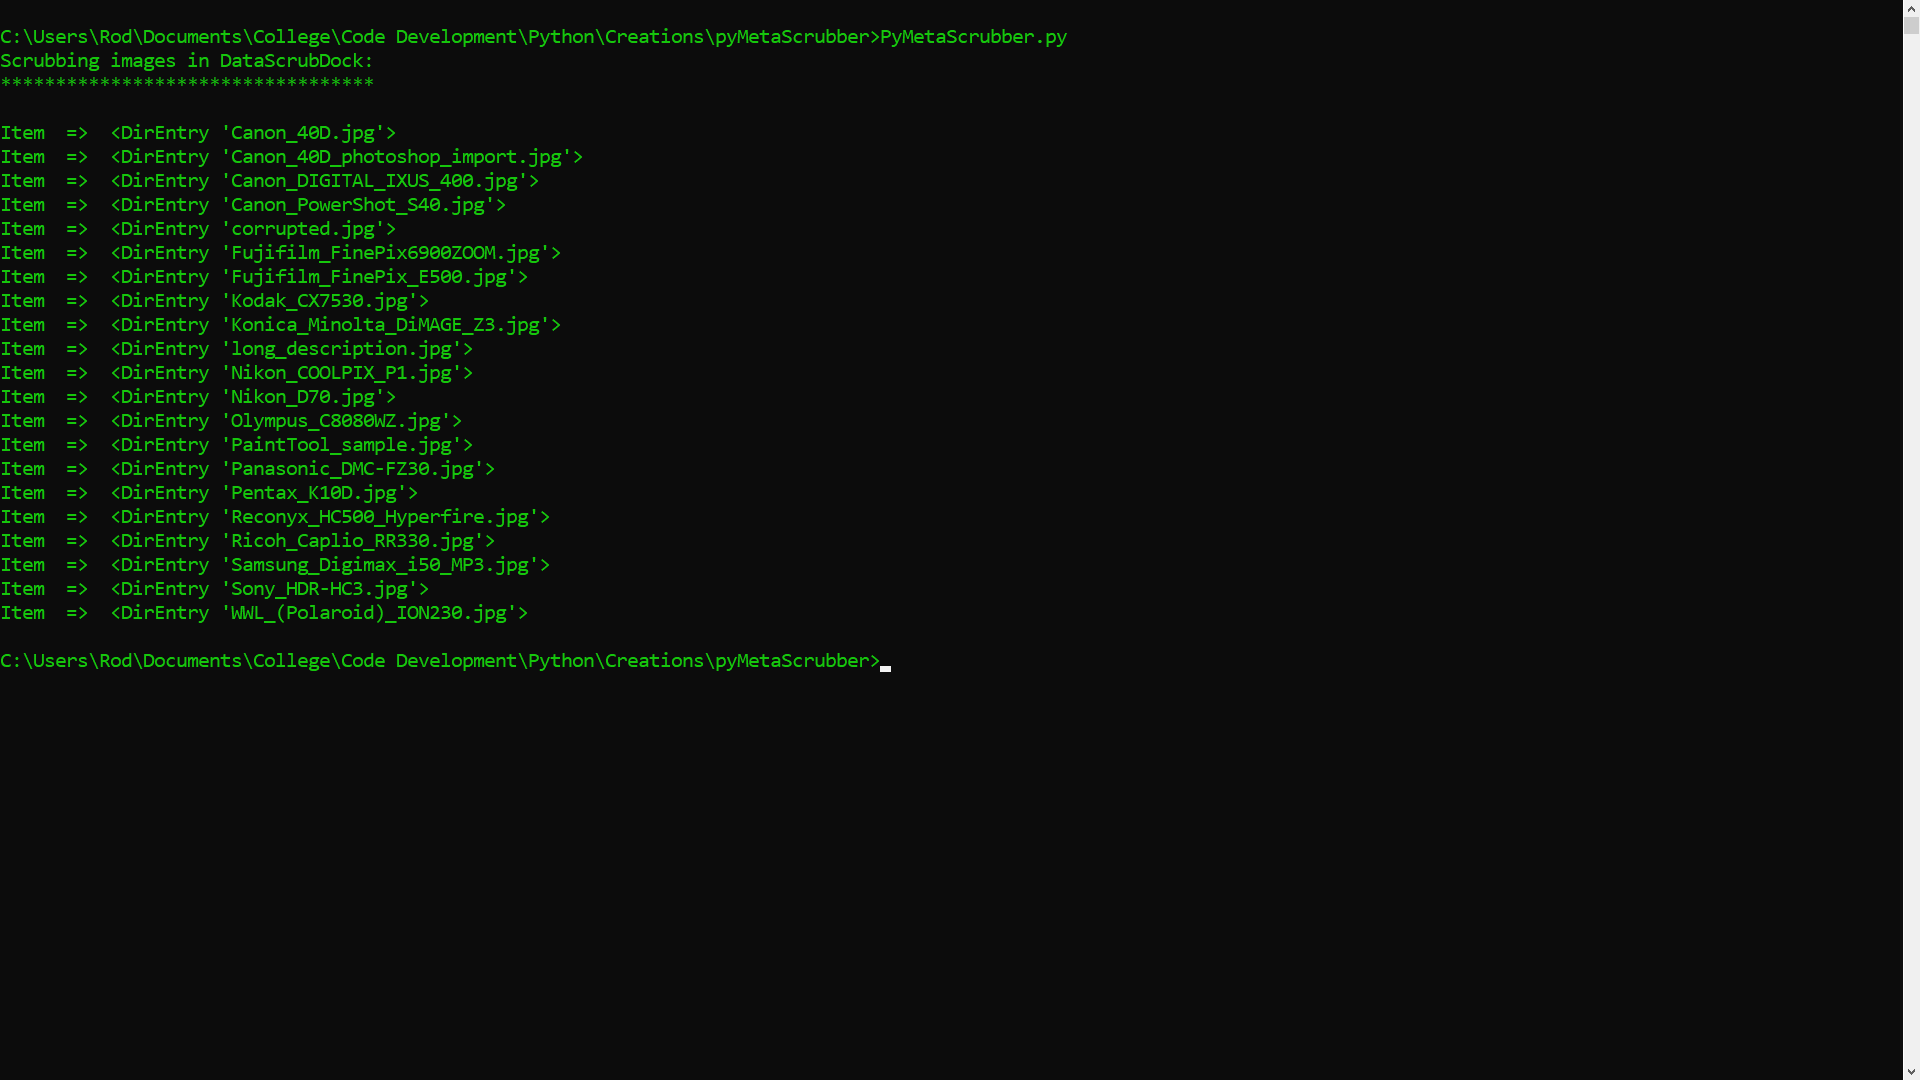
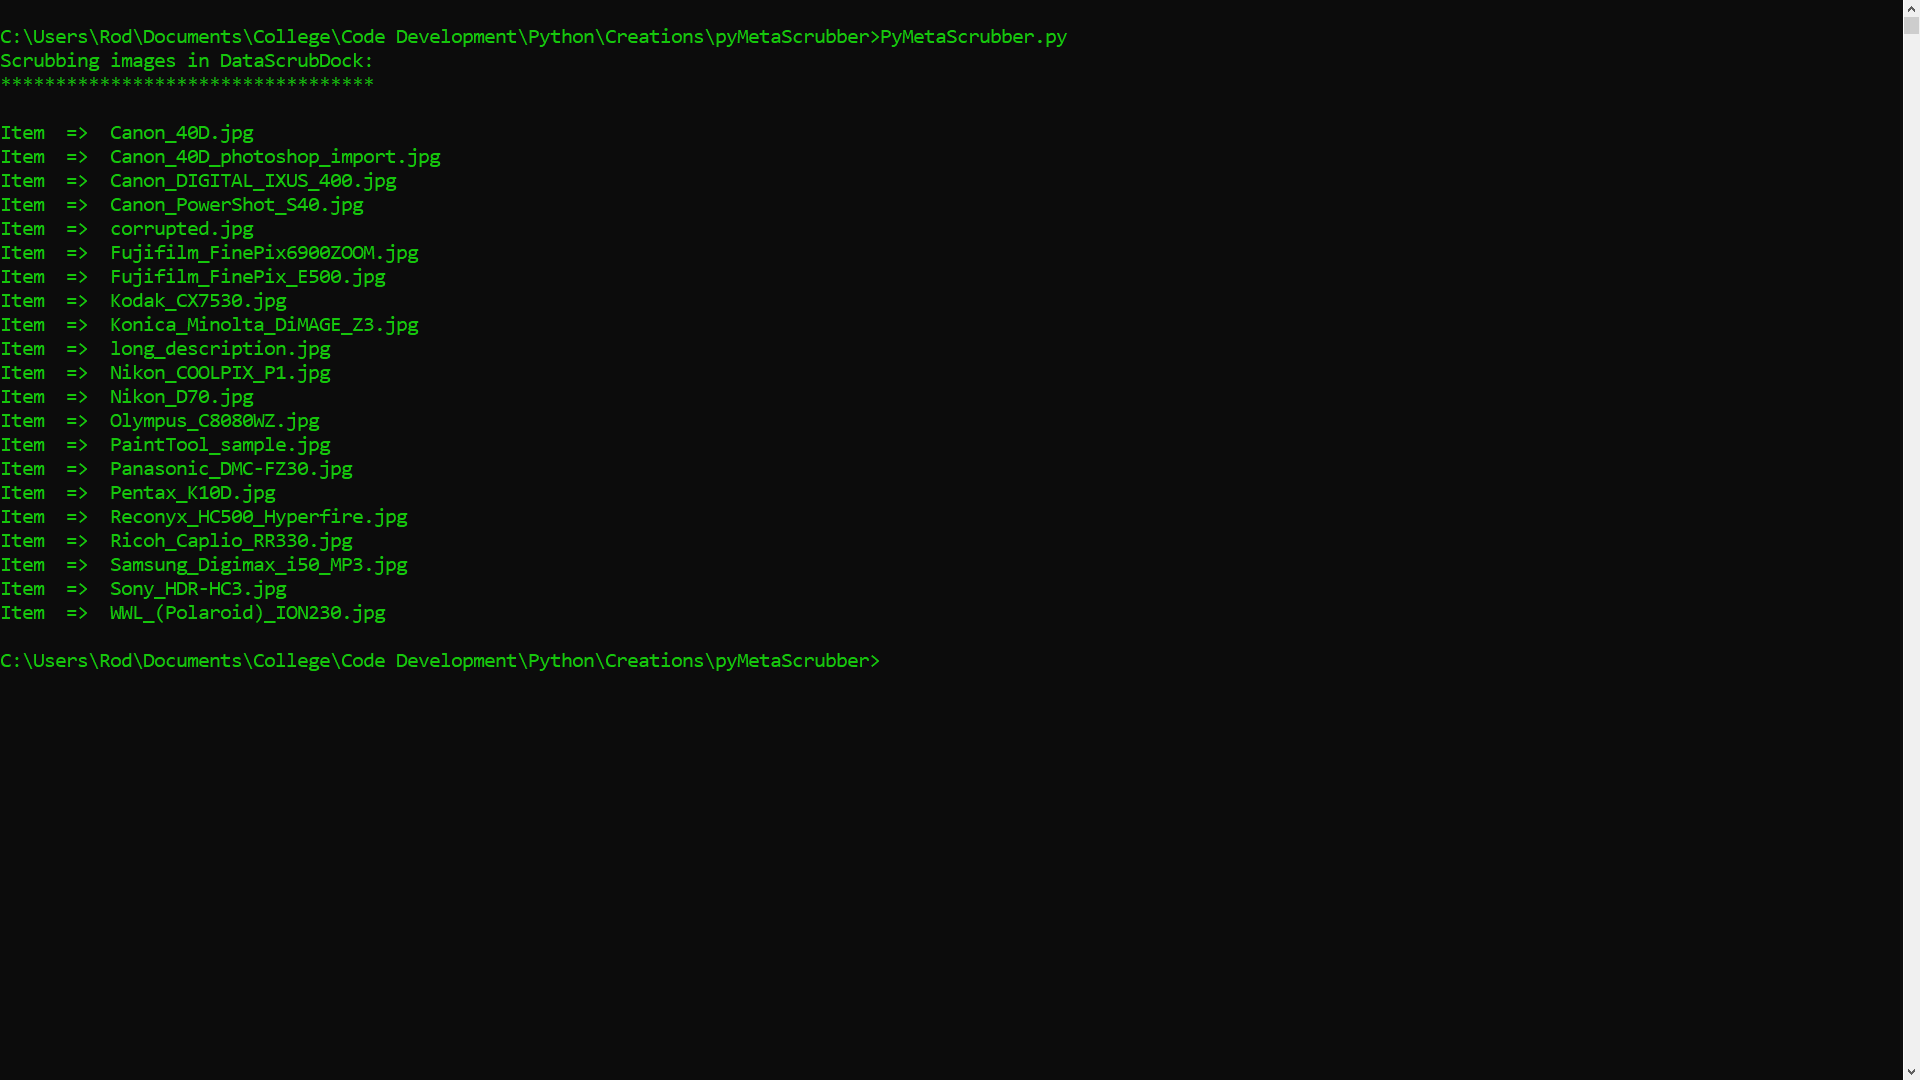
Update - 7/4/22

Changed region(s): [[0.0625, 0.1222, 0.3125, 0.5806]]

diff --git a/PyMetaScrubber.py b/PyMetaScrubber.py
@@ -66,7 +66,7 @@ def main():
             with open(image_file, 'wb') as out_file:
                 out_file.write(meta_file.get_file())
 
-            print(f'Item  =>  {image_file}')
+            print(f'Item  =>  {image_file.name}')
 
         # If file IO error occurs #
         except (AttributeError, KeyError, IOError, Warning):
